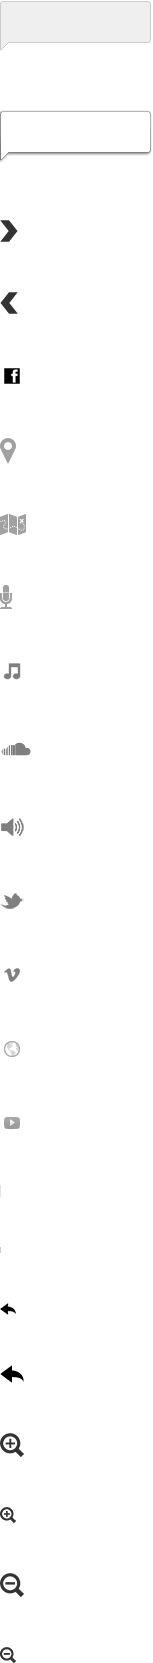
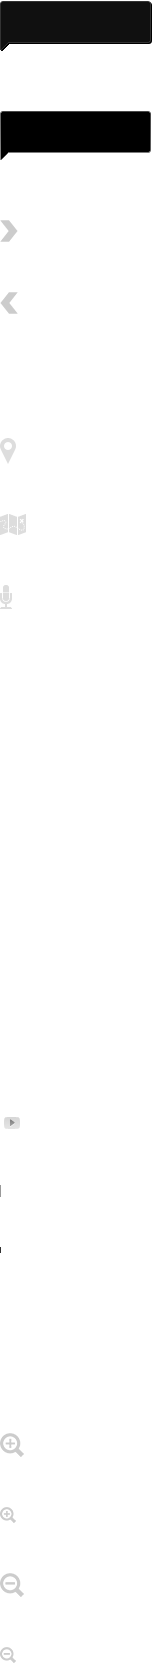
Updated timeline styles
Updated timeline styles to match dark color scheme

diff --git a/public/source/timeline.css b/public/source/timeline.css
@@ -25,14 +25,14 @@
 .vmm-timeline p,.vmm-timeline blockquote,.vmm-timeline blockquote p,.vmm-timeline .twitter blockquote p{font-family:"Georgia",Times New Roman,Times,serif !important;}
 .vmm-timeline .feature h1,.vmm-timeline .feature h2,.vmm-timeline .feature h3,.vmm-timeline .feature h4,.vmm-timeline .feature h5,.vmm-timeline .feature h6{font-family:"Georgia",Times New Roman,Times,serif;}
 .tooltip{font-family:"Helvetica Neue",Helvetica,Arial,sans-serif;}
-#timeline-embed{background-color:#ffffff;margin-bottom:20px;border:1px solid #cccccc;padding-top:20px;padding-bottom:20px;clear:both;-webkit-border-radius:10px;-moz-border-radius:10px;border-radius:10px;-moz-box-shadow:0 1px 3px rgba(0, 0, 0, 0.25);-webkit-box-shadow:0 1px 3px rgba(0, 0, 0, 0.25);box-shadow:1px 2px 6px rgba(0, 0, 0, 0.25);}
-.vmm-timeline{width:100%;height:100%;padding:0px;margin:0px;background-color:#ffffff;position:absolute;z-index:100;clear:both;overflow:hidden;}
+#timeline-embed{margin-bottom:20px;padding-top:20px;padding-bottom:20px;clear:both;}
+.vmm-timeline{width:100%;height:100%;padding:0px;margin:0px;position:absolute;z-index:100;clear:both;overflow:hidden;}
 .vmm-timeline .feature{width:100%;}.vmm-timeline .feature .slider{width:100%;float:left;position:relative;z-index:10;padding-top:15px;-webkit-box-shadow:1px 1px 7px rgba(0, 0, 0, 0.3);-moz-box-shadow:1px 1px 7px rgba(0, 0, 0, 0.3);box-shadow:1px 1px 7px rgba(0, 0, 0, 0.3);}
 .vmm-timeline .feedback{position:absolute;display:table;overflow:hidden;top:0px;left:0px;z-index:205;width:100%;height:100%;background-color:#e9e9e9;border:1px solid #cccccc;}.vmm-timeline .feedback .messege{display:table-cell;vertical-align:middle;font-size:28px;font-weight:bold;text-transform:uppercase;line-height:36px;width:75%;margin-left:auto;margin-right:auto;margin-top:auto;margin-bottom:auto;text-align:center;}
 .vmm-timeline .container.main{position:absolute;top:0px:	left:0px;padding-bottom:3px;width:auto;height:auto;margin:0px;clear:both;}
 .vmm-timeline img,.vmm-timeline embed,.vmm-timeline object,.vmm-timeline video,.vmm-timeline iframe{max-width:100%;}
 .vmm-timeline img{max-height:100%;border:1px solid #999999;}
-.vmm-timeline a{color:#0088cc;text-decoration:none;}
+.vmm-timeline a{color:#fff;text-decoration:none;}
 .vmm-timeline a:hover{color:#005580;text-decoration:underline;}
 .vmm-timeline .twitter{text-align:left;background-color:#ffffff;margin-left:auto;margin-right:auto;margin-bottom:15px;clear:both;}.vmm-timeline .twitter blockquote{font-size:15px;line-height:20px;color:#666666;}.vmm-timeline .twitter blockquote p{font-size:28px;line-height:36px;margin-bottom:6px;padding-top:10px;background-color:#ffffff;color:#000000;}
 .vmm-timeline .twitter blockquote .quote-mark{color:#666666;}
@@ -53,14 +53,14 @@
 .vmm-timeline .thumbnail.map{background-image:url(timeline.png);background-repeat:no-repeat;background-position:0 -514px;width:26px;height:21px;}
 .vmm-timeline .thumbnail.website{background-image:url(timeline.png);background-repeat:no-repeat;background-position:0 -1037px;width:24px;height:24px;}
 .vmm-timeline .zFront{z-index:204;}
-.slider{width:100%;height:100%;overflow:hidden;}.slider .slider-container-mask{text-align:center;width:100%;height:100%;overflow:hidden;}.slider .slider-container-mask .slider-container{position:absolute;top:0px;left:-2160px;width:100%;height:100%;text-align:center;display:block;background-color:#ffffff;}.slider .slider-container-mask .slider-container .slider-item-container{display:table-cell;vertical-align:middle;}
+.slider{width:100%;height:100%;overflow:hidden;}.slider .slider-container-mask{text-align:center;width:100%;height:100%;overflow:hidden;}.slider .slider-container-mask .slider-container{position:absolute;top:0px;left:-2160px;width:100%;height:100%;text-align:center;display:block;}.slider .slider-container-mask .slider-container .slider-item-container{display:table-cell;vertical-align:middle;}
 .slider img,.slider embed,.slider object,.slider video,.slider iframe{max-width:100%;}
-.slider .nav-previous,.slider .nav-next{position:absolute;top:0px;width:100px;color:#DBDBDB;font-size:11px;}.slider .nav-previous .nav-container,.slider .nav-next .nav-container{height:100px;position:absolute;}
+.slider .nav-previous,.slider .nav-next{position:absolute;top:0px;width:100px;color:#c6c6c6;font-size:11px;}.slider .nav-previous .nav-container,.slider .nav-next .nav-container{height:100px;position:absolute;}
 .slider .nav-previous .icon,.slider .nav-next .icon{margin-bottom:15px;}
 .slider .nav-previous .date,.slider .nav-next .date{font-size:15px;font-weight:bold;line-height:20px;text-transform:uppercase;margin-bottom:5px;}
 .slider .nav-previous .date,.slider .nav-next .date,.slider .nav-previous .title,.slider .nav-next .title{line-height:14px;}.slider .nav-previous .date a,.slider .nav-next .date a,.slider .nav-previous .title a,.slider .nav-next .title a{color:#999999;}
 .slider .nav-previous .date small,.slider .nav-next .date small,.slider .nav-previous .title small,.slider .nav-next .title small{display:none;}
-.slider .nav-previous:hover,.slider .nav-next:hover{color:#333333;cursor:pointer;}
+.slider .nav-previous:hover,.slider .nav-next:hover{color:#fff;cursor:pointer;}
[1 lines of base64/hex data omitted]
 .slider .nav-previous .date,.slider .nav-previous .title{text-align:left;padding-left:10px;}
 .slider .nav-previous:hover .icon{margin-left:5px;padding-left:20px;}
@@ -78,13 +78,13 @@
 .slider .slider-item .content-container.layout-text{width:100%;}.slider .slider-item .content-container.layout-text .text{width:100%;max-width:100%;}.slider .slider-item .content-container.layout-text .text .container{display:block;vertical-align:middle;text-align:left;padding:0px;width:90%;text-align:left;margin-left:auto;margin-right:auto;}
 .slider .slider-item .content-container.layout-media{width:100%;}.slider .slider-item .content-container.layout-media .text{width:100%;height:100%;max-width:100%;display:block;text-align:center;}.slider .slider-item .content-container.layout-media .text .container{display:block;text-align:center;width:100%;margin-left:none;margin-right:none;}
 .slider .slider-item .content-container.layout-media .media{width:100%;min-width:50%;float:none;}.slider .slider-item .content-container.layout-media .media .media-wrapper{display:block;}.slider .slider-item .content-container.layout-media .media .media-wrapper .media-container{margin-left:auto;margin-right:auto;overflow:hidden;line-height:0px;padding:0px;}
-.vmm-timeline .navigation{clear:both;cursor:move;width:100%;height:200px;border-top:1px solid #cccccc;position:relative;}.vmm-timeline .navigation .toolbar{position:absolute;top:45px;left:0px;z-index:202;background-color:#ffffff;border:1px solid #cccccc;-webkit-box-shadow:1px 1px 0px rgba(0, 0, 0, 0.2);-moz-box-shadow:1px 1px 0px rgba(0, 0, 0, 0.2);box-shadow:1px 1px 0px rgba(0, 0, 0, 0.2);}.vmm-timeline .navigation .toolbar .zoom-in,.vmm-timeline .navigation .toolbar .zoom-out,.vmm-timeline .navigation .toolbar .back-home{font-weight:normal;font-size:10px;line-height:20px;top:0px;z-index:202;width:18px;height:18px;color:#333333;text-align:center;font-weight:bold;border:1px solid #ffffff;padding:5px;filter:alpha(opacity=50);-khtml-opacity:0.5;-moz-opacity:0.5;opacity:0.5;}
+.vmm-timeline .navigation{clear:both;cursor:move;width:100%;height:200px;border-top:1px solid #444;position:relative;}.vmm-timeline .navigation .toolbar{position:absolute;top:45px;left:0px;z-index:202;background-color:#333;border:1px solid #444;-webkit-box-shadow:1px 1px 0px rgba(0, 0, 0, 0.2);-moz-box-shadow:1px 1px 0px rgba(0, 0, 0, 0.2);box-shadow:1px 1px 0px rgba(0, 0, 0, 0.2);}.vmm-timeline .navigation .toolbar .zoom-in,.vmm-timeline .navigation .toolbar .zoom-out,.vmm-timeline .navigation .toolbar .back-home{font-weight:normal;font-size:10px;line-height:20px;top:0px;z-index:202;width:18px;height:18px;color:#333333;text-align:center;font-weight:bold;border:1px solid #333;padding:5px;filter:alpha(opacity=50);-khtml-opacity:0.5;-moz-opacity:0.5;opacity:0.5;}
 .vmm-timeline .navigation .toolbar .zoom-in:hover,.vmm-timeline .navigation .toolbar .zoom-out:hover,.vmm-timeline .navigation .toolbar .back-home:hover{color:#0088cc;cursor:pointer;filter:alpha(opacity=100);-khtml-opacity:1;-moz-opacity:1;opacity:1;}
 .vmm-timeline .navigation .toolbar .zoom-in .icon{background-image:url(timeline.png);background-repeat:no-repeat;background-position:0 -1507px;width:16px;height:16px;}
 .vmm-timeline .navigation .toolbar .zoom-out .icon{background-image:url(timeline.png);background-repeat:no-repeat;background-position:0 -1647px;width:16px;height:16px;}
 .vmm-timeline .navigation .toolbar .back-home .icon{background-image:url(timeline.png);background-repeat:no-repeat;background-position:0 -1303px;width:16px;height:12px;}
-.vmm-timeline .navigation .timenav-background{position:absolute;cursor:move;top:0px;left:0px;height:150px;width:100%;background-color:#e9e9e9;}.vmm-timeline .navigation .timenav-background .timenav-interval-background{position:absolute;top:151px;left:0px;background:#ffffff;width:100%;height:49px;}.vmm-timeline .navigation .timenav-background .timenav-interval-background .top-highlight{position:absolute;top:-1px;left:0px;z-index:30;width:100%;height:1px;background:#ffffff;filter:alpha(opacity=50);-khtml-opacity:0.5;-moz-opacity:0.5;opacity:0.5;-webkit-box-shadow:1px 1px 5px rgba(0, 0, 0, 0.2);-moz-box-shadow:1px 1px 5px rgba(0, 0, 0, 0.2);box-shadow:1px 1px 5px rgba(0, 0, 0, 0.2);}
-.vmm-timeline .navigation .timenav-background .timenav-line{position:absolute;top:0px;left:50%;width:3px;height:150px;background:#0088cc;z-index:201;-webkit-box-shadow:1px 1px 7px rgba(0, 0, 0, 0.3);-moz-box-shadow:1px 1px 7px rgba(0, 0, 0, 0.3);box-shadow:1px 1px 7px rgba(0, 0, 0, 0.3);}
+.vmm-timeline .navigation .timenav-background{position:absolute;cursor:move;top:0px;left:0px;height:150px;width:100%;background-color:#232323;}.vmm-timeline .navigation .timenav-background .timenav-interval-background{position:absolute;top:151px;left:0px;background:#333;width:100%;height:49px;}.vmm-timeline .navigation .timenav-background .timenav-interval-background .top-highlight{position:absolute;top:-1px;left:0px;z-index:30;width:100%;height:1px;background:#444;filter:alpha(opacity=50);-khtml-opacity:0.5;-moz-opacity:0.5;opacity:0.5;-webkit-box-shadow:1px 1px 5px rgba(0, 0, 0, 0.2);-moz-box-shadow:1px 1px 5px rgba(0, 0, 0, 0.2);box-shadow:1px 1px 5px rgba(0, 0, 0, 0.2);}
+.vmm-timeline .navigation .timenav-background .timenav-line{position:absolute;top:0px;left:50%;width:3px;height:150px;background:#c62d24;z-index:201;-webkit-box-shadow:1px 1px 7px rgba(0, 0, 0, 0.3);-moz-box-shadow:1px 1px 7px rgba(0, 0, 0, 0.3);box-shadow:1px 1px 7px rgba(0, 0, 0, 0.3);}
 .vmm-timeline .navigation .timenav{position:absolute;top:0px;left:-250px;z-index:1;}.vmm-timeline .navigation .timenav .content{position:relative;}.vmm-timeline .navigation .timenav .content .marker.start{display:none;}
 .vmm-timeline .navigation .timenav .content .marker.active .dot{background:#0088cc;z-index:200;}
 .vmm-timeline .navigation .timenav .content .marker.active .line{z-index:199;background:#0088cc;width:1px;}.vmm-timeline .navigation .timenav .content .marker.active .line .event-line{background:#0088cc;filter:alpha(opacity=75);-khtml-opacity:0.75;-moz-opacity:0.75;opacity:0.75;}
@@ -95,10 +95,10 @@
 .vmm-timeline .navigation .timenav .content .marker:hover .line{z-index:201;background:#999999;}
 .vmm-timeline .navigation .timenav .content .marker{position:absolute;top:0px;left:150px;display:block;}.vmm-timeline .navigation .timenav .content .marker .dot{position:absolute;top:150px;left:0px;display:block;width:6px;height:6px;background:#333333;-webkit-border-radius:3px;-moz-border-radius:3px;border-radius:3px;z-index:21;}
 .vmm-timeline .navigation .timenav .content .marker .line{position:absolute;top:0px;left:3px;width:1px;height:150px;background:#cccccc;-moz-box-shadow:1px 0 0 #ffffff;-webkit-box-shadow:1px 0 0 #ffffff;box-shadow:1px 0 0 #ffffff;z-index:22;}.vmm-timeline .navigation .timenav .content .marker .line .event-line{position:absolute;z-index:22;left:0px;height:1px;width:1px;background:#0088cc;filter:alpha(opacity=15);-khtml-opacity:0.15;-moz-opacity:0.15;opacity:0.15;}
-.vmm-timeline .navigation .timenav .content .marker .flag{position:absolute;top:15px;left:3px;padding:0px;display:block;z-index:23;width:153px;height:56px;background-image:url(timeline.png);background-repeat:no-repeat;background-position:0 0;width:153px;height:60px;}.vmm-timeline .navigation .timenav .content .marker .flag .flag-content{padding:5px 7px 2px 5px;overflow:hidden;height:33px;}.vmm-timeline .navigation .timenav .content .marker .flag .flag-content h3{font-weight:bold;font-size:15px;line-height:20px;font-size:11px;line-height:11px;color:#999999;margin-bottom:2px;}.vmm-timeline .navigation .timenav .content .marker .flag .flag-content h3 small{display:none;}
+.vmm-timeline .navigation .timenav .content .marker .flag{position:absolute;top:15px;left:3px;padding:0px;display:block;z-index:23;width:153px;height:56px;background-image:url(timeline.png);background-repeat:no-repeat;background-position:0 0;width:153px;height:60px;}.vmm-timeline .navigation .timenav .content .marker .flag .flag-content{padding:5px 7px 2px 5px;overflow:hidden;height:33px;}.vmm-timeline .navigation .timenav .content .marker .flag .flag-content h3{font-size:15px;line-height:20px;font-size:11px;line-height:11px;color:#999999;margin-bottom:2px;}.vmm-timeline .navigation .timenav .content .marker .flag .flag-content h3 small{display:none;}
 .vmm-timeline .navigation .timenav .content .marker .flag .flag-content h4{display:none;font-weight:normal;font-size:15px;line-height:20px;font-size:10px;line-height:10px;color:#aaaaaa;}.vmm-timeline .navigation .timenav .content .marker .flag .flag-content h4 small{display:none;}
 .vmm-timeline .navigation .timenav .content .marker .flag .flag-content .thumbnail{margin-bottom:15px;}
-.vmm-timeline .navigation .timenav .content .marker .flag:hover{cursor:pointer;background-image:url(timeline.png);background-repeat:no-repeat;background-position:0 -110px;width:153px;height:60px;}.vmm-timeline .navigation .timenav .content .marker .flag:hover .flag-content h3{color:#333333;}
+.vmm-timeline .navigation .timenav .content .marker .flag:hover{cursor:pointer;background-image:url(timeline.png);background-repeat:no-repeat;background-position:0 -110px;width:153px;height:60px;}.vmm-timeline .navigation .timenav .content .marker .flag:hover .flag-content h3{color:#fff;}
 .vmm-timeline .navigation .timenav .content .marker .flag:hover .flag-content h4{color:#aaaaaa;}
 .vmm-timeline .navigation .timenav .content .marker .flag.row1{z-index:25;top:48px;}
 .vmm-timeline .navigation .timenav .content .marker .flag.row2{z-index:24;top:96px;}
@@ -108,13 +108,12 @@
[3 lines of base64/hex data omitted]
-.vmm-timeline{font-size:15px;font-weight:normal;line-height:20px;-webkit-font-smoothing:antialiased;-webkit-text-size-adjust:100%;}.vmm-timeline p{font-size:15px;font-weight:normal;line-height:20px;margin-bottom:20px;color:#666666;}.vmm-timeline p small{font-size:12px;line-height:17px;}
+.vmm-timeline{font-size:15px;font-weight:normal;line-height:20px;-webkit-font-smoothing:antialiased;-webkit-text-size-adjust:100%;}.vmm-timeline p{font-size:15px;font-weight:normal;line-height:20px;margin-bottom:20px;color:#c6c6c6;}.vmm-timeline p small{font-size:12px;line-height:17px;}
 .vmm-timeline p:first-child{margin-top:20px;}
 .vmm-timeline .navigation p{color:#999999;}
 .vmm-timeline .feature h3,.vmm-timeline .feature h4,.vmm-timeline .feature h5,.vmm-timeline .feature h6{margin-bottom:15px;}
-.vmm-timeline .feature p{color:#666666;}
 .vmm-timeline .date a,.vmm-timeline .title a{color:#999999;}
-.vmm-timeline h1,.vmm-timeline h2,.vmm-timeline h3,.vmm-timeline h4,.vmm-timeline h5,.vmm-timeline h6{font-weight:normal;color:#000000;text-transform:none;}.vmm-timeline h1 a,.vmm-timeline h2 a,.vmm-timeline h3 a,.vmm-timeline h4 a,.vmm-timeline h5 a,.vmm-timeline h6 a{color:#999999;}
+.vmm-timeline h1,.vmm-timeline h2,.vmm-timeline h3,.vmm-timeline h4,.vmm-timeline h5,.vmm-timeline h6{font-weight:normal;color:#fff;text-transform:none;}.vmm-timeline h1 a,.vmm-timeline h2 a,.vmm-timeline h3 a,.vmm-timeline h4 a,.vmm-timeline h5 a,.vmm-timeline h6 a{color:#999999;}
 .vmm-timeline h1 small,.vmm-timeline h2 small,.vmm-timeline h3 small,.vmm-timeline h4 small,.vmm-timeline h5 small,.vmm-timeline h6 small{color:#999999;}
 .vmm-timeline h1.date,.vmm-timeline h2.date,.vmm-timeline h3.date,.vmm-timeline h4.date,.vmm-timeline h5.date,.vmm-timeline h6.date{font-weight:bold;}
 .vmm-timeline h2.start{font-size:42px;line-height:44px;}

diff --git a/public/stylesheets/master.css b/public/stylesheets/master.css
@@ -102,4 +102,4 @@ ul { list-style: disc; margin-left: 1.5em; }
 .share a:hover img { opacity: 0.7; }
 
 /* Timeline */
-/* #timeline { background: url(../images/timeline-bg.jpg); } */
+#story { background: url(../images/timeline-bg.jpg); height: 522px; }
